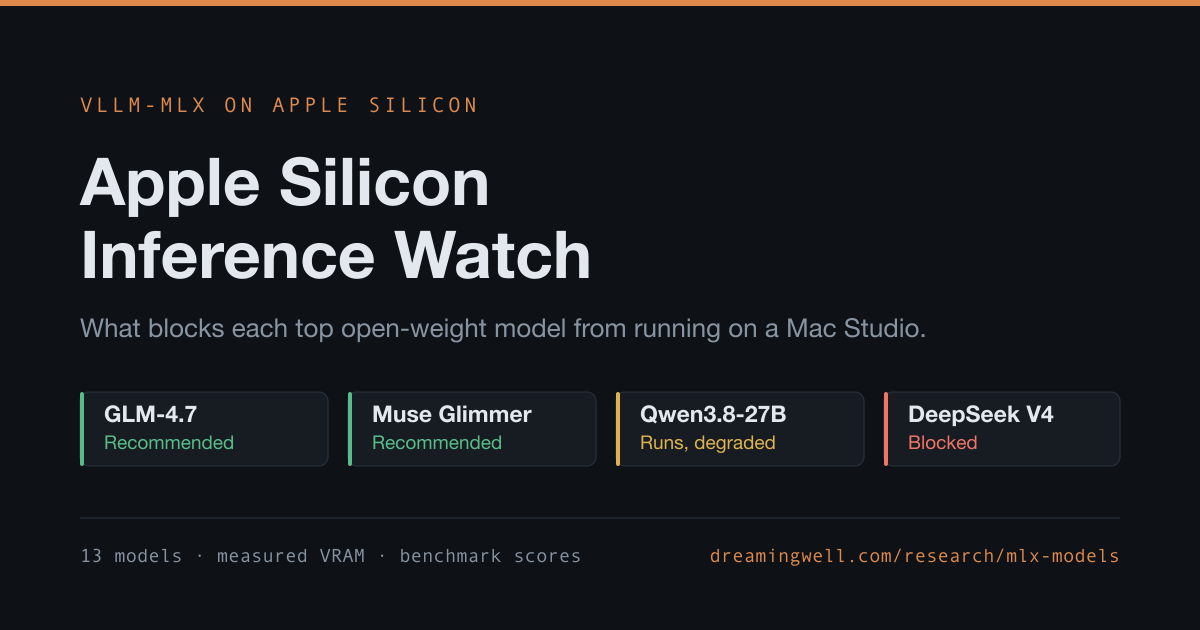
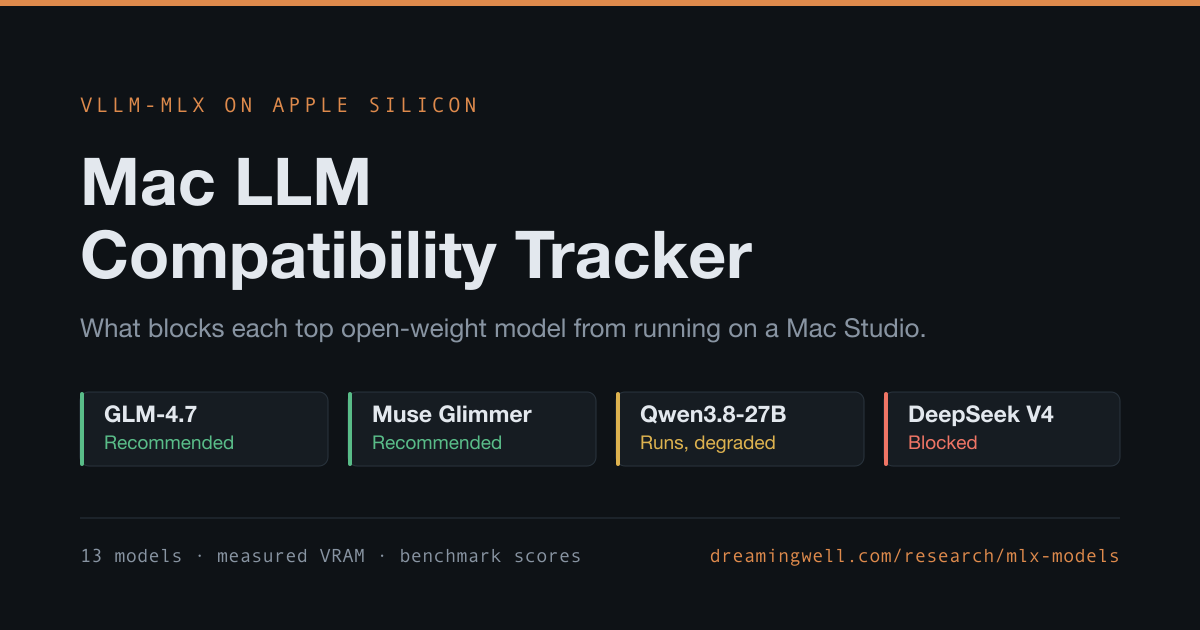
research: refresh MLX model status page

Changed region(s): [[0.0617, 0.2413, 0.6475, 0.4825]]

diff --git a/research/mlx-models/index.html b/research/mlx-models/index.html
@@ -1,22 +1,22 @@
-<title>Apple Silicon Inference Watch</title>
+<title>Mac LLM Compatibility Tracker</title>
 <meta name="viewport" content="width=device-width, initial-scale=1">
 <meta name="robots" content="noindex, nofollow">
 <meta name="description" content="Measured VRAM, agentic and coding benchmark scores, and the open MLX issues blocking 13 top open-weight models on Apple Silicon. Configurable for any Mac Studio cluster.">
 <meta property="og:type" content="website">
 <meta property="og:site_name" content="DreamingWell">
 <meta property="og:url" content="https://dreamingwell.com/research/mlx-models/">
-<meta property="og:title" content="Apple Silicon Inference Watch">
+<meta property="og:title" content="Mac LLM Compatibility Tracker">
 <meta property="og:description" content="Measured VRAM, agentic and coding benchmark scores, and the open MLX issues blocking 13 top open-weight models on Apple Silicon. Configurable for any Mac Studio cluster.">
 <meta property="og:image" content="https://dreamingwell.com/research/mlx-models/card.png">
 <meta property="og:image:type" content="image/png">
 <meta property="og:image:width" content="1200">
 <meta property="og:image:height" content="630">
-<meta property="og:image:alt" content="Dark status card titled Apple Silicon Inference Watch, showing GLM-4.7 and Muse Glimmer as recommended, Qwen3.8-27B degraded, and DeepSeek V4 blocked.">
+<meta property="og:image:alt" content="Dark status card titled Mac LLM Compatibility Tracker, showing GLM-4.7 and Muse Glimmer as recommended, Qwen3.8-27B degraded, and DeepSeek V4 blocked.">
 <meta name="twitter:card" content="summary_large_image">
-<meta name="twitter:title" content="Apple Silicon Inference Watch">
+<meta name="twitter:title" content="Mac LLM Compatibility Tracker">
 <meta name="twitter:description" content="Measured VRAM, agentic and coding benchmark scores, and the open MLX issues blocking 13 top open-weight models on Apple Silicon. Configurable for any Mac Studio cluster.">
 <meta name="twitter:image" content="https://dreamingwell.com/research/mlx-models/card.png">
-<meta name="twitter:image:alt" content="Dark status card titled Apple Silicon Inference Watch, showing GLM-4.7 and Muse Glimmer as recommended, Qwen3.8-27B degraded, and DeepSeek V4 blocked.">
+<meta name="twitter:image:alt" content="Dark status card titled Mac LLM Compatibility Tracker, showing GLM-4.7 and Muse Glimmer as recommended, Qwen3.8-27B degraded, and DeepSeek V4 blocked.">
 <link rel="canonical" href="https://dreamingwell.com/research/mlx-models/">
 <link rel="preconnect" href="https://fonts.googleapis.com">
 <link rel="preconnect" href="https://fonts.gstatic.com" crossorigin>
@@ -235,7 +235,7 @@
 <div class="wrap">
   <header>
     <span class="eyebrow">vllm-mlx on Apple Silicon</span>
-    <h1>Apple Silicon inference watch</h1>
+    <h1>Mac LLM Compatibility Tracker</h1>
     <p class="sub">What stands between each top-tier open-weight model and running well on a Mac Studio
     M5 Ultra 256GB under vllm-mlx. VRAM figures are measured from the actual quantised repositories.
     mlx-lm items appear only where they propagate &mdash; vllm-mlx wraps mlx-lm's model classes,
@@ -247,7 +247,7 @@
     <div class="stat mid"><span class="n">1</span><span class="k">Runs, degraded</span></div>
     <div class="stat bad"><span class="n">6</span><span class="k">Blocked</span></div>
     <div class="stat"><span class="n">31</span><span class="k">Open items</span></div>
-    <div class="stat time"><time class="n ago" datetime="2026-08-25T22:39:55-04:00">2026-08-25 22:39</time><span class="k">Since last change</span></div>
+    <div class="stat time"><time class="n ago" datetime="2026-08-25T22:44:05-04:00">2026-08-25 22:44</time><span class="k">Since last change</span></div>
   </div>
 
 
